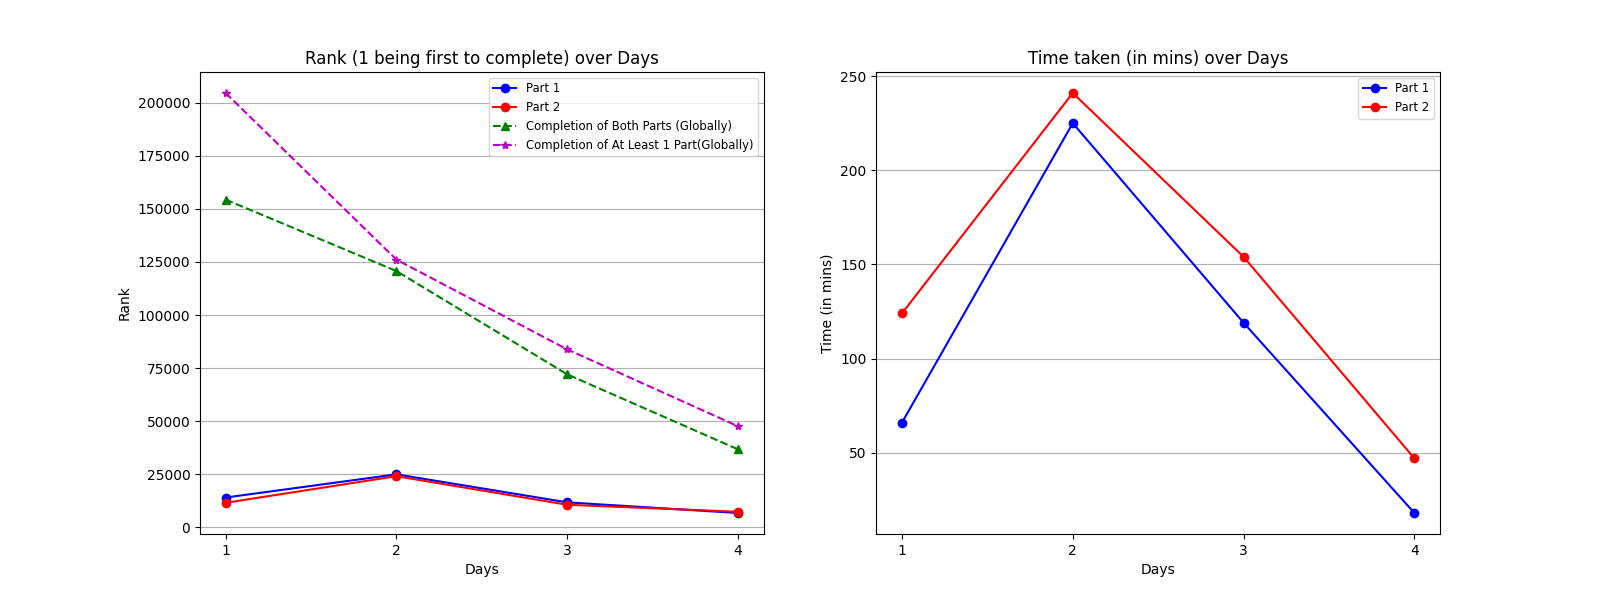
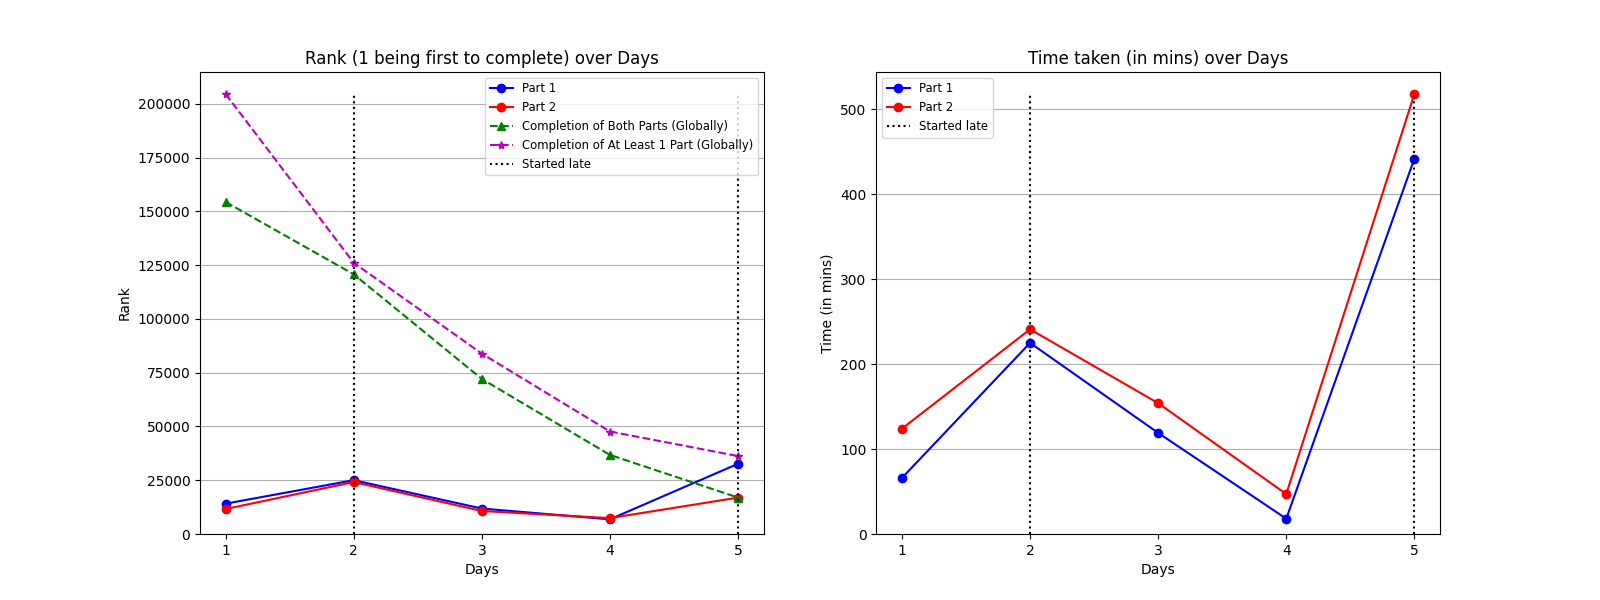
Added Day 5 code and statistics

diff --git a/day_5/day_5.py b/day_5/day_5.py
@@ -1,0 +1,93 @@
+import regex as re
+labels = ["seeds", "seed_soil", "soil_fertilizer", "fertilizer_water", "water_light", "light_temp", "temp_humidity", "humidity_location"]
+
+def part_1(): 
+    with open("day_5.txt", "r") as f:
+        rows = {}
+        local = []
+        counter = 0
+        for line in f:
+            if line == "\n":
+                continue
+            elif "map" in line:
+                rows[labels[counter]] = local
+                local = []
+                counter += 1
+            elif "seeds" in line:
+                entry = line.split(":")[1].strip().split(" ")
+                local = list(map(lambda x: int(x), entry))
+            else:
+                entry = line.strip().split(" ")
+                local.append(tuple(map(lambda x: int(x), entry)))
+        rows[labels[counter]] = local
+    counter = 1
+    seeds = rows["seeds"]
+    while counter < len(labels):
+        for idx, seed in enumerate(seeds):
+            for (dest, src, ran) in rows[labels[counter]]:
+                if src <= seed < src + ran:
+                    new_seed = seed - src + dest
+                    seeds[idx] = new_seed
+        counter += 1
+    print(min(seeds))
+
+def part_2():
+    with open("day_5.txt", "r") as f:
+        rows = {}
+        local = []
+        counter = 0
+        for line in f:
+            if line == "\n":      
+                continue
+            elif "map" in line:
+                rows[labels[counter]] = local
+                local = []
+                counter += 1
+            elif "seeds" in line:
+                entry = re.findall(r"\d+ \d+", line)
+                entry = list(map(lambda x: tuple(map(lambda x: int(x), x.split(" "))), entry))
+                local = entry
+            else:
+                entry = line.strip().split(" ")
+                local.append(tuple(map(lambda x: int(x), entry)))
+        rows[labels[counter]] = local
+    counter = 1
+    
+    seeds = rows["seeds"]
+    while counter < len(labels):
+        print(seeds)
+        for idx, item in enumerate(seeds):
+            start = item[0]
+            rang = item[1]
+            for (dest, src, ran) in rows[labels[counter]]:
+                if start >= src + ran or start + rang < src:
+                    continue
+                else:
+                    if rang == 0:
+                        if src <= start < src + ran:
+                            seeds[idx] = start - src + dest
+                        else:
+                            seeds.remove(item) 
+                    elif src <= start < src + ran:
+                        if start + rang >= src + ran:
+                            seeds[idx] = (start - src + dest, src + ran - start) 
+                            seeds.append((src + ran, start + rang - src - ran))
+                        else:
+                            seeds[idx] = (start - src + dest, rang)
+                    elif start < src:
+                        if src <= start + rang < src + ran:
+                            seeds[idx] = (start, src - start - 1)
+                            seeds.append((dest, start + rang - src))
+                        elif start + rang >= src + ran:
+                            seeds[idx] = (start, src - start - 1)
+                            seeds.append((dest, ran))
+                            seeds.append((src + ran, rang - (src - start - 1) - ran))
+                    break
+        counter += 1
+    final = list(map(lambda x: x[0], seeds))
+    # print(final)
+    print(min(final))
+
+if __name__ == "__main__":
+    # part_1()
+    part_2()

diff --git a/stats/stats.py b/stats/stats.py
@@ -1,13 +1,14 @@
 import numpy as np
 import matplotlib.pyplot as plt
 
-one_rank = [14101, 25010, 11831, 6816]
-two_rank = [11613, 24146, 10693, 7384]
-total = [154354, 120716, 72083, 36771]
-add = [50180, 5364, 11757, 10872]
+one_rank = [14101, 25010, 11831, 6816, 32645]               # rank for part 1
+two_rank = [11613, 24146, 10693, 7384, 16922]               # rank for part 2
+two_stars_tot = [154354, 120716, 72083, 36771, 16942]       # number of people that completed both parts
+add = [50180, 5364, 11757, 10872, 19277]                    # number of people that completed part 1 only
+anomalies = [2, 5]                                          # days where I did not start on time
 
-one_time = [(1,6,6), (3,44,38), (1,59,16), (0,18,0)]
-two_time = [(2,3,32), (4,0,37), (2,34,4), (0,46,44)]
+one_time = [(1,6,6), (3,44,38), (1,59,16), (0,18,0), (7,22,24)]        # time taken for part 1 in (hrs, mins, secs)
+two_time = [(2,3,32), (4,0,37), (2,34,4), (0,46,44), (8,38,27)]        # time taken for part 2 in (hrs, mins, secs)
 i = len(one_rank) + 1
 
 def convert_to_mins(tup):
@@ -21,30 +22,39 @@ one_ranks = np.array(one_rank, dtype=int)
 two_ranks = np.array(two_rank, dtype=int)
 one_times = np.array(one_time)
 two_times = np.array(two_time)
-totals = np.array(total, dtype=int)
-totals_adds = totals + np.array(add, dtype=int)
+two_stars_tots = np.array(two_stars_tot, dtype=int)
+totals_adds = two_stars_tots + np.array(add, dtype=int)
+anoms = np.array(anomalies, dtype=int)
 days = np.arange(start=1, stop=i, dtype=int)
+
+Y_MIN = 0
+Y_MAX_0 = max(totals_adds)
+Y_MAX_1 = max(two_times)
 
 fig, ax = plt.subplots(1, 2, figsize=(16, 6))
 ax[0].plot(days, one_rank, "bo-", label="Part 1")
 ax[0].plot(days, two_rank, "ro-", label="Part 2")
-ax[0].plot(days, total, "g^--", label="Completion of Both Parts (Globally)")
-ax[0].plot(days, totals_adds, "m*--", label="Completion of At Least 1 Part(Globally)")
+ax[0].plot(days, two_stars_tots, "g^--", label="Completion of Both Parts (Globally)")
+ax[0].plot(days, totals_adds, "m*--", label="Completion of At Least 1 Part (Globally)")
+ax[0].vlines(anoms, ymin=Y_MIN, ymax=Y_MAX_0, color="k", linestyles="dotted", label="Started late")
 ax[0].set_title("Rank (1 being first to complete) over Days")
 ax[0].set_xlabel("Days")
 ax[0].set_ylabel("Rank")
 ax[0].legend(fontsize="small")
 ax[0].grid(visible=True, which="major", axis="y")
 ax[0].set_xticks(days)
+ax[0].set_ylim(ymin=0)
 
 ax[1].plot(days, one_time, "bo-", label="Part 1")
 ax[1].plot(days, two_time, "ro-", label="Part 2")
+ax[1].vlines(anoms, ymin=Y_MIN, ymax=Y_MAX_1, color="k", linestyles="dotted", label="Started late")
 ax[1].set_title("Time taken (in mins) over Days")
 ax[1].set_xlabel("Days")
 ax[1].set_ylabel("Time (in mins)")
 ax[1].legend(fontsize="small")
 ax[1].grid(visible=True, which="major", axis="y")
 ax[1].set_xticks(days)
+ax[1].set_ylim(ymin=0)
 
 plt.savefig("stat_of_the_day.png", format="png")
 plt.show()

diff --git a/day_5/new.py b/day_5/new.py
@@ -1,0 +1,49 @@
+file = open('day_5.txt','r')
+lst = [i.strip() for i in file]
+
+seeds = [int(i) for i in lst[0].split(": ")[1].split(" ")]
+maps = []
+for line in lst[2:]:
+    if not line:
+        continue
+    if 'map' in line:
+        mapper = []
+        maps.append(mapper)
+    else:
+        mapper.append([int(i) for i in line.split(" ")])
+
+# # Part 1
+
+# score = 1000000000000000000000000000000000000000000000
+# for seed in seeds:
+#     temp = seed
+#     for m in maps:
+#         for d,s,r in m:
+#             if s <= temp <= s+r-1:
+#                 temp += d-s
+#                 break
+#     score = min(temp,score)
+# #print(score)
+
+# Part 2
+
+seeds2 = [(seeds[2*i],seeds[2*i+1]) for i in range(len(seeds)//2)]
+score2 = 0
+flag2 = True
+while flag2:
+    temp = score2
+    for m in maps[::-1]:
+        for d,s,r in m:
+            if d <= temp <= d+r-1:
+                temp += s-d
+                break
+    flag = True
+    for i,j in seeds2:
+        if i <= temp <= i+j-1:
+            flag = False
+            break
+    if flag:
+        score2 += 1
+    else:
+        print(score2)
+        break

diff --git a/README.md b/README.md
@@ -18,6 +18,8 @@ Huge thanks to the creator of AOC, [Eric Wastl](http://was.tl/).
     * This was a horrible problem for me, because it seemed so tedious. I eventually opted to store each character in an n x n array, recording the indices of the groups of numbers and symbols that were not ".", and traversed the entire n x n array
 4. Scratchcards (2/2 stars)
     * Very manageable actually. Solved this one quite quickly due to me being used to regex. I opted for a "bottom-up" style of dynamic programming in Part 2 which if not for a careless mistake, could've been my first sub-20 minute submission.
+5. If You Give A Seed A Fertilizer (2/2 stars)
+    * I must say the problem gave me quite a headache, but it did teach me the principles of logical thinking and analysis. It sounds weird, but my approach was a more mathematical and logical one as compared to my initial idea which was brute-forcing. Although the code is bulky and unoptimised, I'm quite proud of it anyway.
 
 # Analysis of Times and Completion
 ![](stats/stat_of_the_day.png?raw=true)
